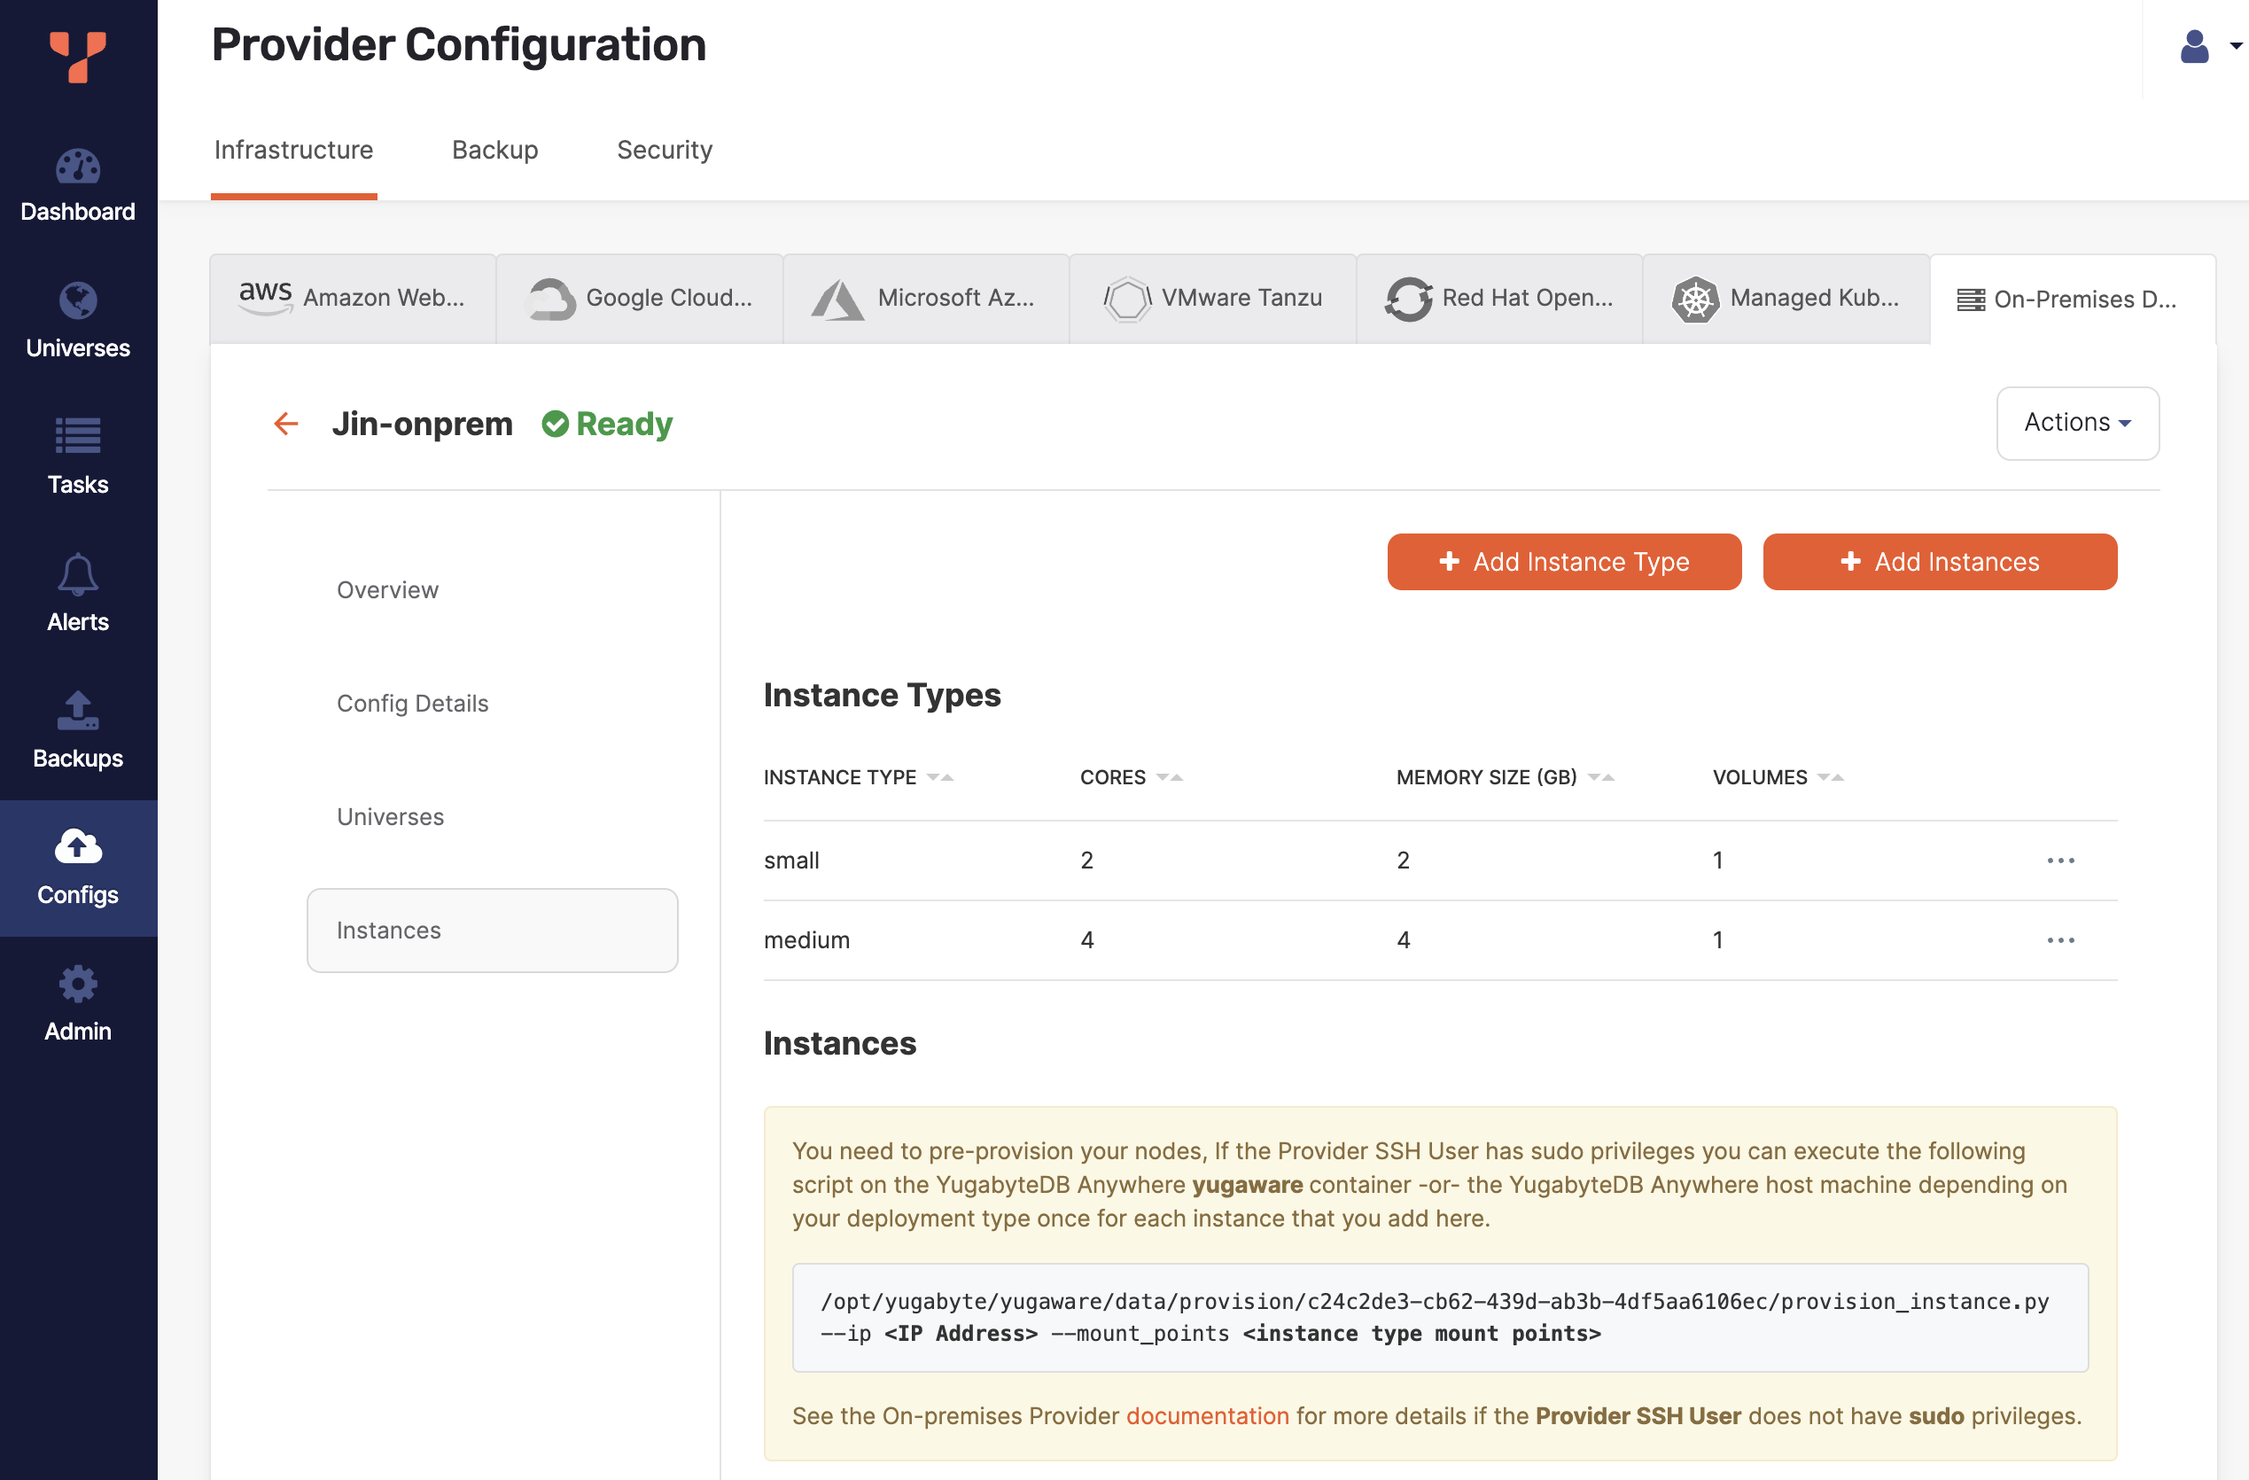
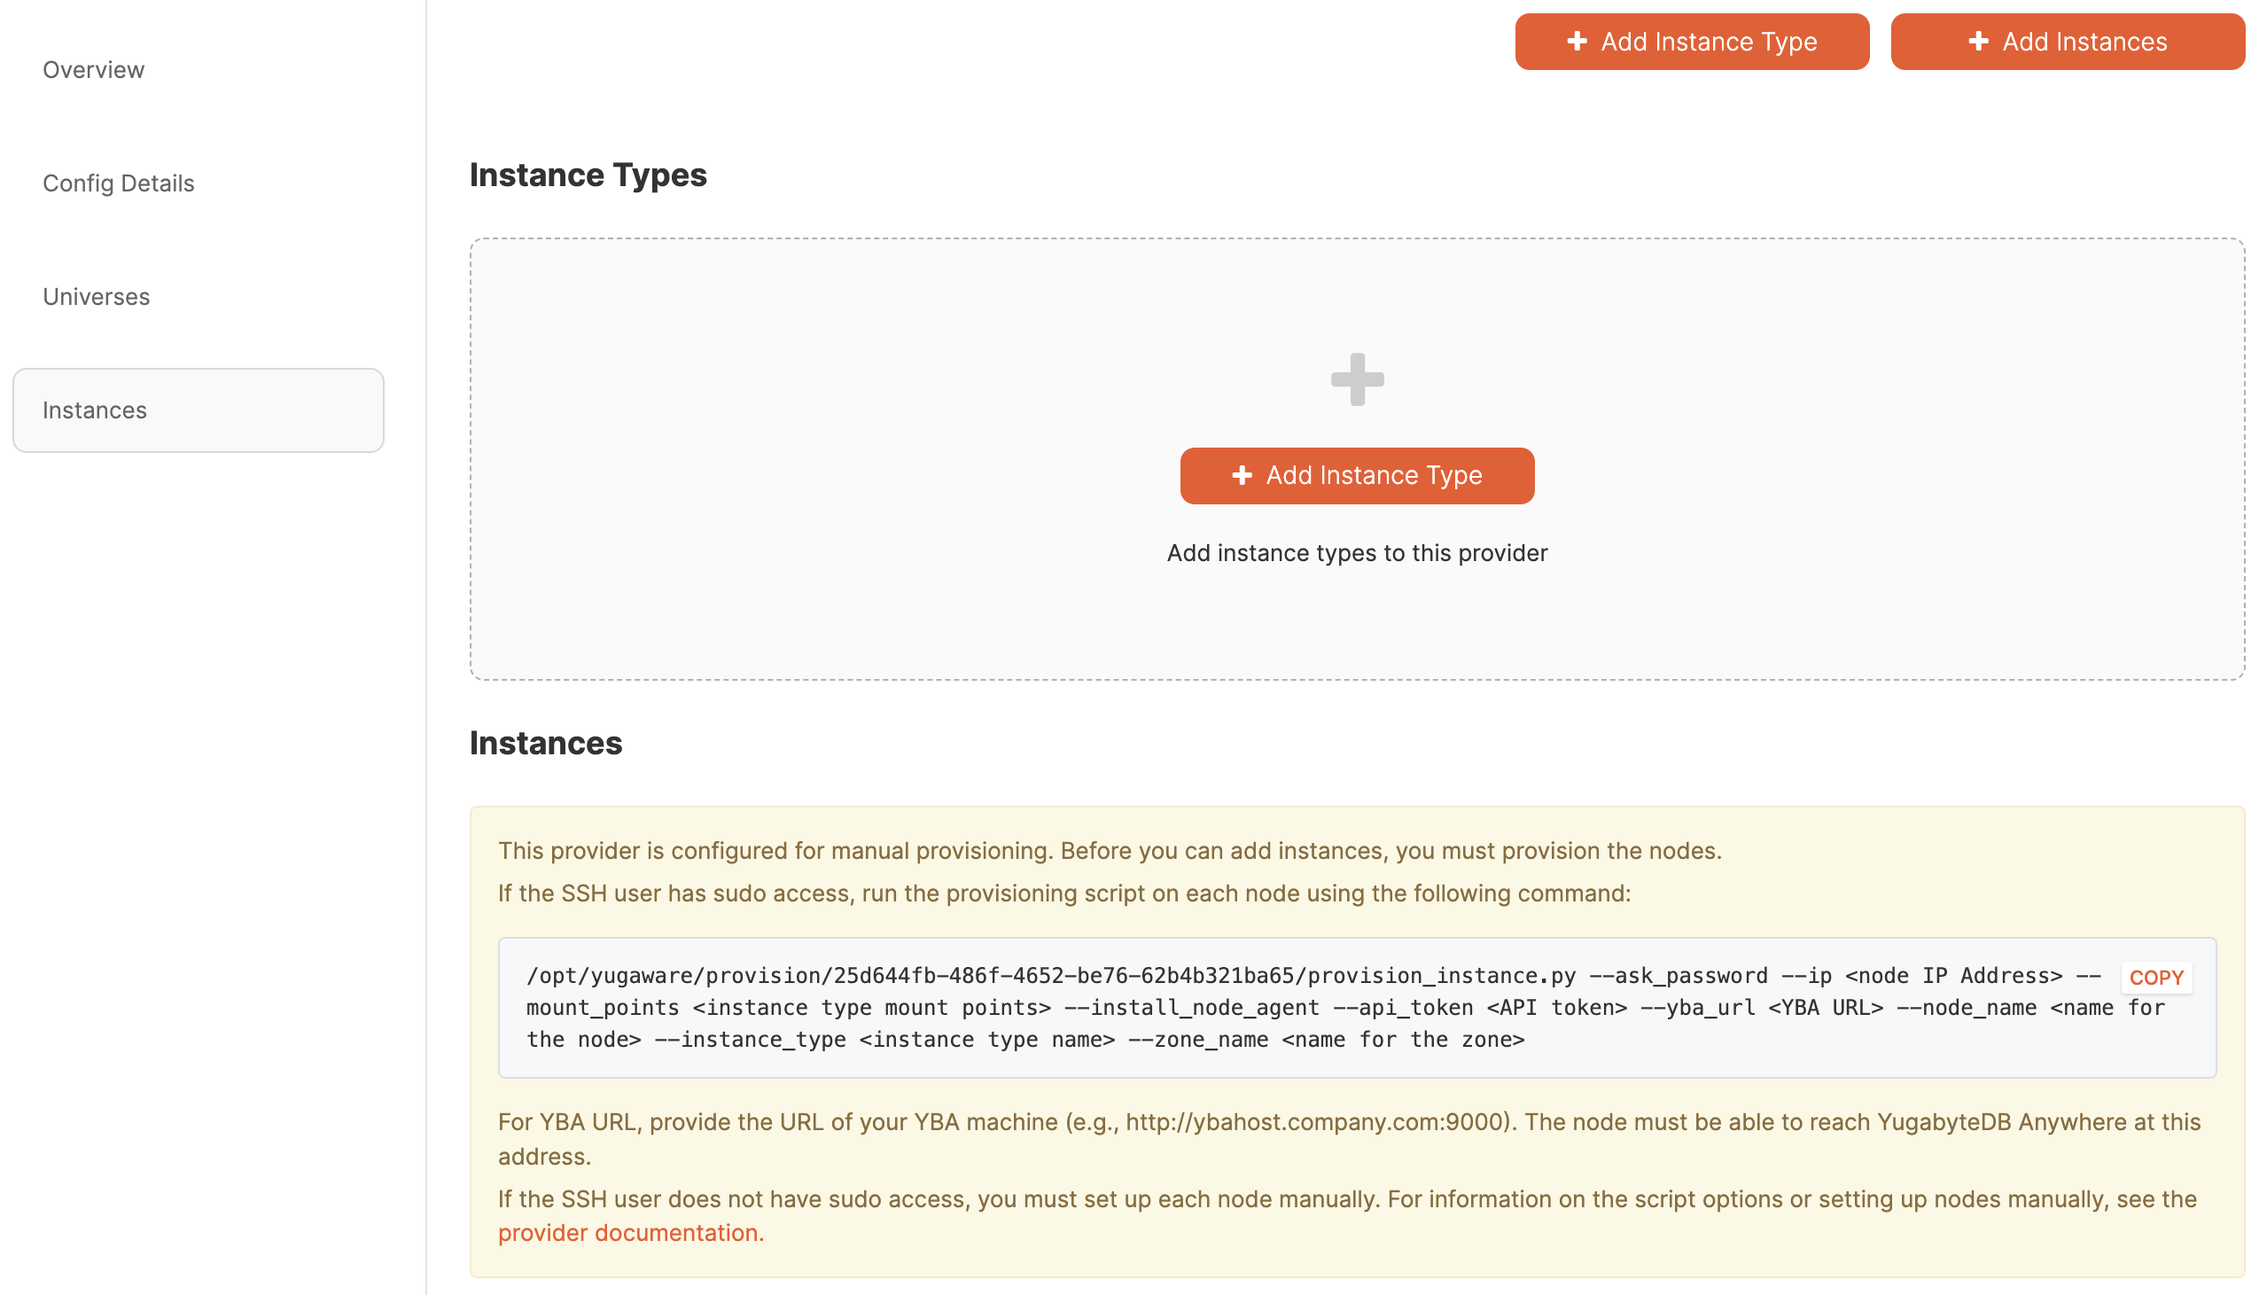
Reorganize the on-prem manual setup

diff --git a/docs/content/preview/yugabyte-platform/configure-yugabyte-platform/set-up-cloud-provider/on-premises.md b/docs/content/preview/yugabyte-platform/configure-yugabyte-platform/set-up-cloud-provider/on-premises.md
@@ -75,7 +75,7 @@ With on-premises providers, VMs are _not_ auto-created by YugabyteDB Anywhere; y
 Creating an on-premises provider requires the following steps:
 
 - Create your VMs. Do this using your hypervisor or cloud provider. You will need the IP addresses of the VMs.
-- [Create the on-premises provider configuration](#create-a-provider). The provider configuration includes details such as the SSH user you will use to access your VMs and the regions where the nodes are located.
+- [Create the on-premises provider configuration](#create-a-provider). The provider configuration includes details such as the SSH user you will use to access your VMs while setting up the provider, and the regions where the nodes are located.
 - Specify the compute [instance types](#add-instance-types) that will be used in this provider.
 - [Add the compute instances](#add-instances) by provisioning each of the node instances that the provider will use for deploying YugabyteDB universes with the necessary software, and then adding them to the pool of nodes.
 
@@ -149,7 +149,7 @@ YugabyteDB Anywhere uses the sudo user to set up YugabyteDB nodes. However, if a
 - Sudo user requires a password.
 - The SSH user is not a sudo user.
 
-For manual provisioning, you are prompted to run a Python provisioning script at a later stage to provision the database instances. Refer to [Provision nodes manually](#provision-nodes-manually).
+For manual provisioning, you are prompted to run a Python provisioning script at a later stage to provision the database instances. Refer to [Add instances](#add-instances).
 
 Optionally, use the **YB Nodes Home Directory** field to specify the home directory of the `yugabyte` user. The default value is `/home/yugabyte`.
 
@@ -173,9 +173,7 @@ After the provider has been created, you can configure the hardware for the on-p
 To configure the hardware, do the following:
 
 1. Specify the compute [instance types](#add-instance-types) that will be used in this provider.
-1. Add the compute instances.
-    - If you are not manually provisioning nodes, [add instances](#add-instances) for each node.
-    - If the **Manually Provision Nodes** option is enabled for the provider configuration, first [provision the nodes manually](#provision-nodes-manually), then add instances.
+1. [Add the compute instances](#add-instances).
 
 ### Add instance types
 
@@ -199,7 +197,7 @@ To add an instance type, do the following:
 
 You can add instances to an on-prem provider using the YugabyteDB Anywhere UI.
 
-If **Manually Provision Nodes** is enabled in the on-prem provider configuration, you must [manually provision instances](#provision-nodes-manually) before adding them.
+Note that after you have added the instances to the provider (including installing the node agent) YugabyteDB Anywhere no longer requires SSH or sudo access to nodes.
 
 #### Prerequisites
 
@@ -208,7 +206,14 @@ Before you add instances, you need the following:
 - The IP addresses of your VMs. Before you can add instances, you need to create your VMs. You do this using your hypervisor or cloud provider.
 - Instance type to assign each instance. The instance types define properties of the instances, along with the mount points. See [Add instance types](#add-instance-types).
 
-#### Add instances in YugabyteDB Anywhere
+In addition, if **Manually Provision Nodes** is enabled in the on-prem provider configuration, you must manually provision instances with the necessary software before you can add them to the provider. You only need to manually provision instances if one of the following conditions is true:
+
+- Your [SSH user](#ssh-key-pairs) has sudo privileges that require a password.
+- Your SSH user does not have sudo privileges.
+
+For instructions, refer to [Set up on-premises nodes manually](../on-premises-script/).
+
+#### Add instances to the on-prem provider
 
 To add the instances, do the following:
 
@@ -236,83 +241,3 @@ To add the instances, do the following:
 YugabyteDB Anywhere runs the check and displays the status in the **Preflight Check** column. Click in the column to view details; you can also view the results under **Tasks**.
 
 If all your instances successfully pass the preflight check, your on-premises cloud provider configuration is ready, and you can proceed to [Configure the backup target](../../backup-target/) or [Create deployments](../../../create-deployments/).
-
-### Provision nodes manually
-
-When provisioning nodes manually, you will follow one of two procedures, depending on the privileges of your SSH user:
-
-- SSH user has sudo privileges
-
-    Follow the instructions in [Provision nodes using the pre-provisioning script](#provision-nodes-manually-using-the-pre-provisioning-script). You run the pre-provisioning script on each node to install the YugabyteDB software and node agent.
-
-- SSH user does not have sudo privileges
-
-    Follow the instructions in [Set up on-premises nodes manually](../on-premises-manual).
-
-Note that after you have provisioned nodes, including installing the node agent, YugabyteDB Anywhere no longer requires SSH or sudo access to nodes.
-
-#### Provision nodes manually using the pre-provisioning script
-
-This step is only required if you set **Manually Provision Nodes** to true on your on-prem provider configuration, and the SSH user has sudo privileges which require a password.
-
-{{< note title="Note" >}}
-If the SSH user does not have any sudo privileges, you can't use the script and need to set up the database nodes manually. Refer to [Set up on-premises nodes manually](../on-premises-manual/).
-{{< /note >}}
-
-To provision your nodes you can run the pre-provisioning script (`provision_instance.py`). The script is displayed under **Instances** on the **Instances** tab of the on-prem configuration you created.
-
-You can manually provision each node using the pre-provisioning Python script, as follows:
-
-1. Log in to the YugabyteDB Anywhere virtual machine via SSH.
-
-1. Access the Docker `yugaware` container, as follows:
-
-    ```sh
-    sudo docker exec -it yugaware bash
-    ```
-
-1. Copy and paste the Python script command from the provider **Instances** page in YugabyteDB Anywhere.
-
-    ![On-prem pre-provisioning script](/images/yb-platform/config/yba-onprem-config-script.png)
-
-    Set the flags for the command as follows:
-
-    - `--ask_password` - this flag instructs the script to prompt for a password, which is required if the sudo user requires password authentication.
-    - `--ip` - enter the IP address of the node.
-    - `--mount_points` - enter the mount point configured for the node (typically `/data`). If you have multiple drives, add these as a comma-separated list, such as, for example, `/mnt/d0,/mnt/d1`.
-    - `--install_node_agent` - this flag instructs the script to install the node agent, which is required for YugabyteDB Anywhere to communicate with the instance.
-    - `--api_token` - enter your API token; you can create an API token by navigating to your **User Profile** and clicking **Generate Key**.
-    - `--yba_url` - enter the URL of the machine where you are running YugabyteDB Anywhere, with port 9000. For example, `http://ybahost.company.com:9000`. The node must be able to communicate with YugabyteDB Anywhere at this address.
-    - `--node_name` - enter a name for the node.
-    - `--instance_type` - enter the name of the [instance type](#add-instance-types) to use for the node. The name must match the name of an existing instance type.
-    - `--zone_name` - enter a zone name for the node.
-
-    For example:
-
-    ```bash
-    /opt/yugabyte/yugaware/data/provision/9cf26f3b-4c7c-451a-880d-593f2f76efce/provision_instance.py \
-        --ask_password \
-        --ip 10.9.116.65 \
-        --mount_points /data \
-        --install_node_agent \
-        --api_token 999bc9db-ddfb-9fec-a33d-4f8f9fd88db7 \
-        --yba_url http://100.98.0.40:9000 \
-        --node_name onprem_node1 \
-        --instance_type c5.large \
-        --zone_name us-west-2a 
-    ```
-
-    Expect the following output and, if you specified `--ask-password`, prompt:
-
-    ```output
-    Executing provision now for instance with IP 10.9.116.65...
-    SUDO password:
-    ```
-
-1. Enter your password.
-
-1. Wait for the script to finish successfully.
-
-1. Repeat step 3 for every node that will participate in the on-prem configuration.
-
-You can proceed to [add instances](#add-instances) to the provider.

diff --git a/docs/content/preview/yugabyte-platform/configure-yugabyte-platform/set-up-cloud-provider/on-premises-script.md b/docs/content/preview/yugabyte-platform/configure-yugabyte-platform/set-up-cloud-provider/on-premises-script.md
@@ -1,0 +1,96 @@
+---
+title: Set up on-premises nodes manually
+headerTitle: Set up on-premises nodes manually
+linkTitle: Set up on-prem nodes manually
+description: Provision the on-premises nodes manually.
+headContent: Your SSH user has sudo privileges that require a password
+menu:
+  preview_yugabyte-platform:
+    identifier: on-premises-manual-2
+    parent: configure-yugabyte-platform
+    weight: 20
+type: docs
+---
+
+<ul class="nav nav-tabs-alt nav-tabs-yb">
+  <li>
+    <a href="../on-premises-script/" class="nav-link active">
+      <i class="fa-regular fa-scroll"></i>
+      Manual setup with script
+    </a>
+  </li>
+
+  <li>
+    <a href="../on-premises-manual/" class="nav-link">
+      <i class="icon-shell" aria-hidden="true"></i>
+      Fully manual setup
+    </a>
+  </li>
+</ul>
+
+This procedure is only required if both of the following conditions are true:
+
+- You set [Manually Provision Nodes](../on-premises/#provider-settings) to true in the on-premises provider configuration.
+- The SSH user has sudo privileges that require a password.
+
+To provision your nodes you can run the pre-provisioning script (`provision_instance.py`). The script is displayed under **Instances** on the **Instances** tab of the on-prem configuration you created. (If the SSH user does not have any sudo privileges, you can't use the script and need to perform a [fully manual setup](../on-premises-manual/).)
+
+## Manually provision nodes using the script
+
+You can manually provision each node using the pre-provisioning Python script, as follows:
+
+1. Log in to the YugabyteDB Anywhere virtual machine via SSH.
+
+1. If you installed YugabyteDB Anywhere using Replicated, access the Docker `yugaware` container, as follows:
+
+    ```sh
+    sudo docker exec -it yugaware bash
+    ```
+
+1. In YugabyteDB Anywhere, navigate to **Configs > Infrastructure > On-Premises Datacenters**, select the on-prem configuration you created, and choose **Instances**.
+
+    ![On-prem pre-provisioning script](/images/yb-platform/config/yba-onprem-config-script.png)
+
+1. Copy and paste the Python script command under **Instances**.
+
+    Set the flags for the command as follows:
+
+    - `--ask_password` - this flag instructs the script to prompt for a password, which is required if the sudo user requires password authentication.
+    - `--ip` - enter the IP address of the node.
+    - `--mount_points` - enter the mount point configured for the node (typically `/data`). If you have multiple drives, add these as a comma-separated list, such as, for example, `/mnt/d0,/mnt/d1`.
+    - `--install_node_agent` - this flag instructs the script to install the node agent, which is required for YugabyteDB Anywhere to communicate with the instance.
+    - `--api_token` - enter your API token; you can create an API token by navigating to your **User Profile** and clicking **Generate Key**.
+    - `--yba_url` - enter the URL of the machine where you are running YugabyteDB Anywhere, with port 9000. For example, `http://ybahost.company.com:9000`. The node must be able to communicate with YugabyteDB Anywhere at this address.
+    - `--node_name` - enter a name for the node.
+    - `--instance_type` - enter the name of the [instance type](#add-instance-types) to use for the node. The name must match the name of an existing instance type.
+    - `--zone_name` - enter a zone name for the node.
+
+    For example:
+
+    ```bash
+    /opt/yugabyte/yugaware/data/provision/9cf26f3b-4c7c-451a-880d-593f2f76efce/provision_instance.py \
+        --ask_password \
+        --ip 10.9.116.65 \
+        --mount_points /data \
+        --install_node_agent \
+        --api_token 999bc9db-ddfb-9fec-a33d-4f8f9fd88db7 \
+        --yba_url http://100.98.0.40:9000 \
+        --node_name onprem_node1 \
+        --instance_type c5.large \
+        --zone_name us-west-2a 
+    ```
+
+    Expect the following output and password prompt:
+
+    ```output
+    Executing provision now for instance with IP 10.9.116.65...
+    SUDO password:
+    ```
+
+1. Enter your password.
+
+1. Wait for the script to finish successfully.
+
+1. Repeat steps 4-6 for every node that will participate in the on-prem configuration.
+
+After you have provisioned the nodes, you can proceed to [add the instances to the on-prem provider](../on-premises/#add-instances).

diff --git a/docs/content/preview/yugabyte-platform/configure-yugabyte-platform/set-up-cloud-provider/on-premises-manual.md b/docs/content/preview/yugabyte-platform/configure-yugabyte-platform/set-up-cloud-provider/on-premises-manual.md
@@ -3,21 +3,39 @@ title: Set up on-premises nodes manually
 headerTitle: Set up on-premises nodes manually
 linkTitle: Set up on-prem nodes manually
 description: Provision the on-premises nodes manually.
-headContent: Provision on-prem nodes manually if you don't have sudo access
+headContent: Your SSH user does not have sudo privileges
 menu:
   preview_yugabyte-platform:
-    identifier: on-premises-manual
+    identifier: on-premises-manual-1
     parent: configure-yugabyte-platform
     weight: 20
 type: docs
 ---
+
+<ul class="nav nav-tabs-alt nav-tabs-yb">
+  <li>
+    <a href="../on-premises-script/" class="nav-link">
+      <i class="fa-regular fa-scroll"></i>
+      Manual setup with script
+    </a>
+  </li>
+
+  <li>
+    <a href="../on-premises-manual/" class="nav-link active">
+      <i class="icon-shell" aria-hidden="true"></i>
+      Fully manual setup
+    </a>
+  </li>
+</ul>
 
 This procedure is only required if both of the following conditions are true:
 
 - You set [Manually Provision Nodes](../on-premises/#provider-settings) to true in the on-premises provider configuration.
 - The SSH user does not have sudo privileges at all.
 
-If the SSH user configured in the on-premises provider does not have sudo privileges, then you can set up each of the database nodes manually. Note that you need access to a user with sudo privileges in order to complete these steps.
+If the SSH user configured in the on-premises provider does not have sudo privileges, then you must set up each of the database nodes manually using the following procedure.
+
+Note that you need access to a user with sudo privileges in order to complete these steps.
 
 For each node, perform the following:
 
@@ -29,6 +47,8 @@ For each node, perform the following:
 - [Set crontab permissions](#set-crontab-permissions)
 - [Install systemd-related database service unit files (optional)](#install-systemd-related-database-service-unit-files)
 - [Install the node agent](#install-node-agent)
+
+After you have provisioned the nodes, you can proceed to [add the instances to the on-prem provider](../on-premises/#add-instances).
 
 ## Set up time synchronization
 
